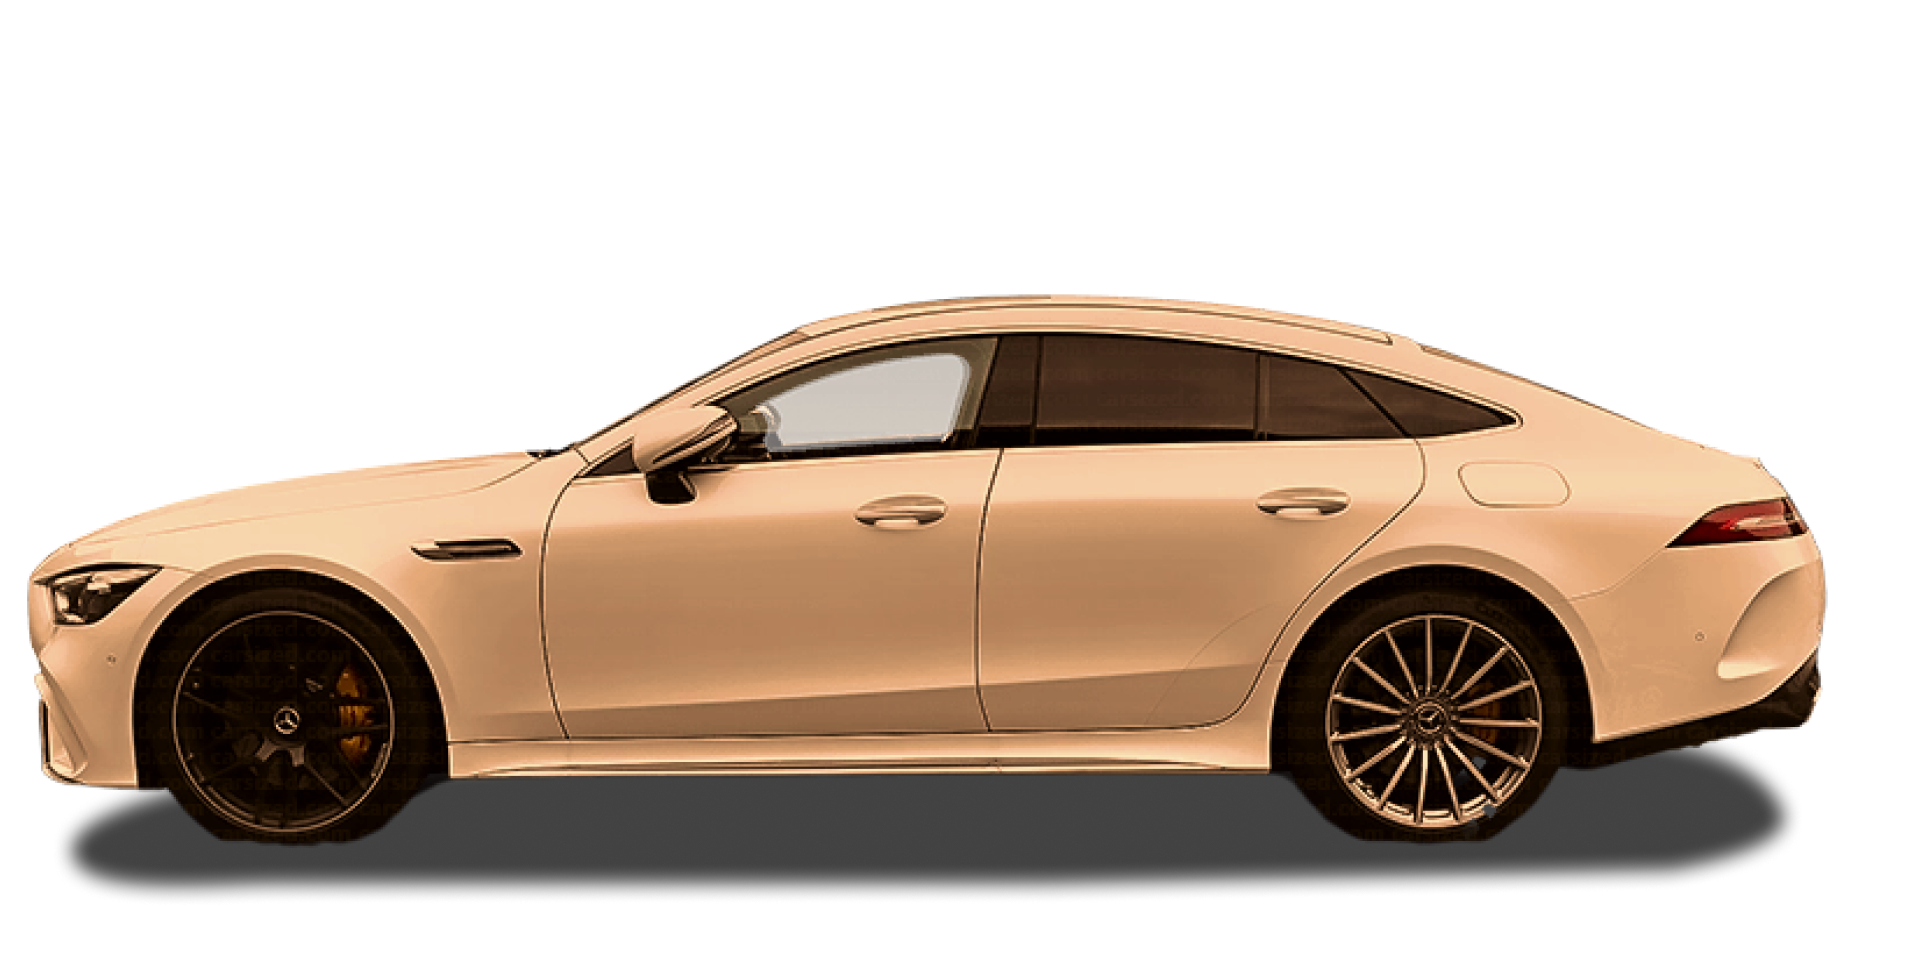
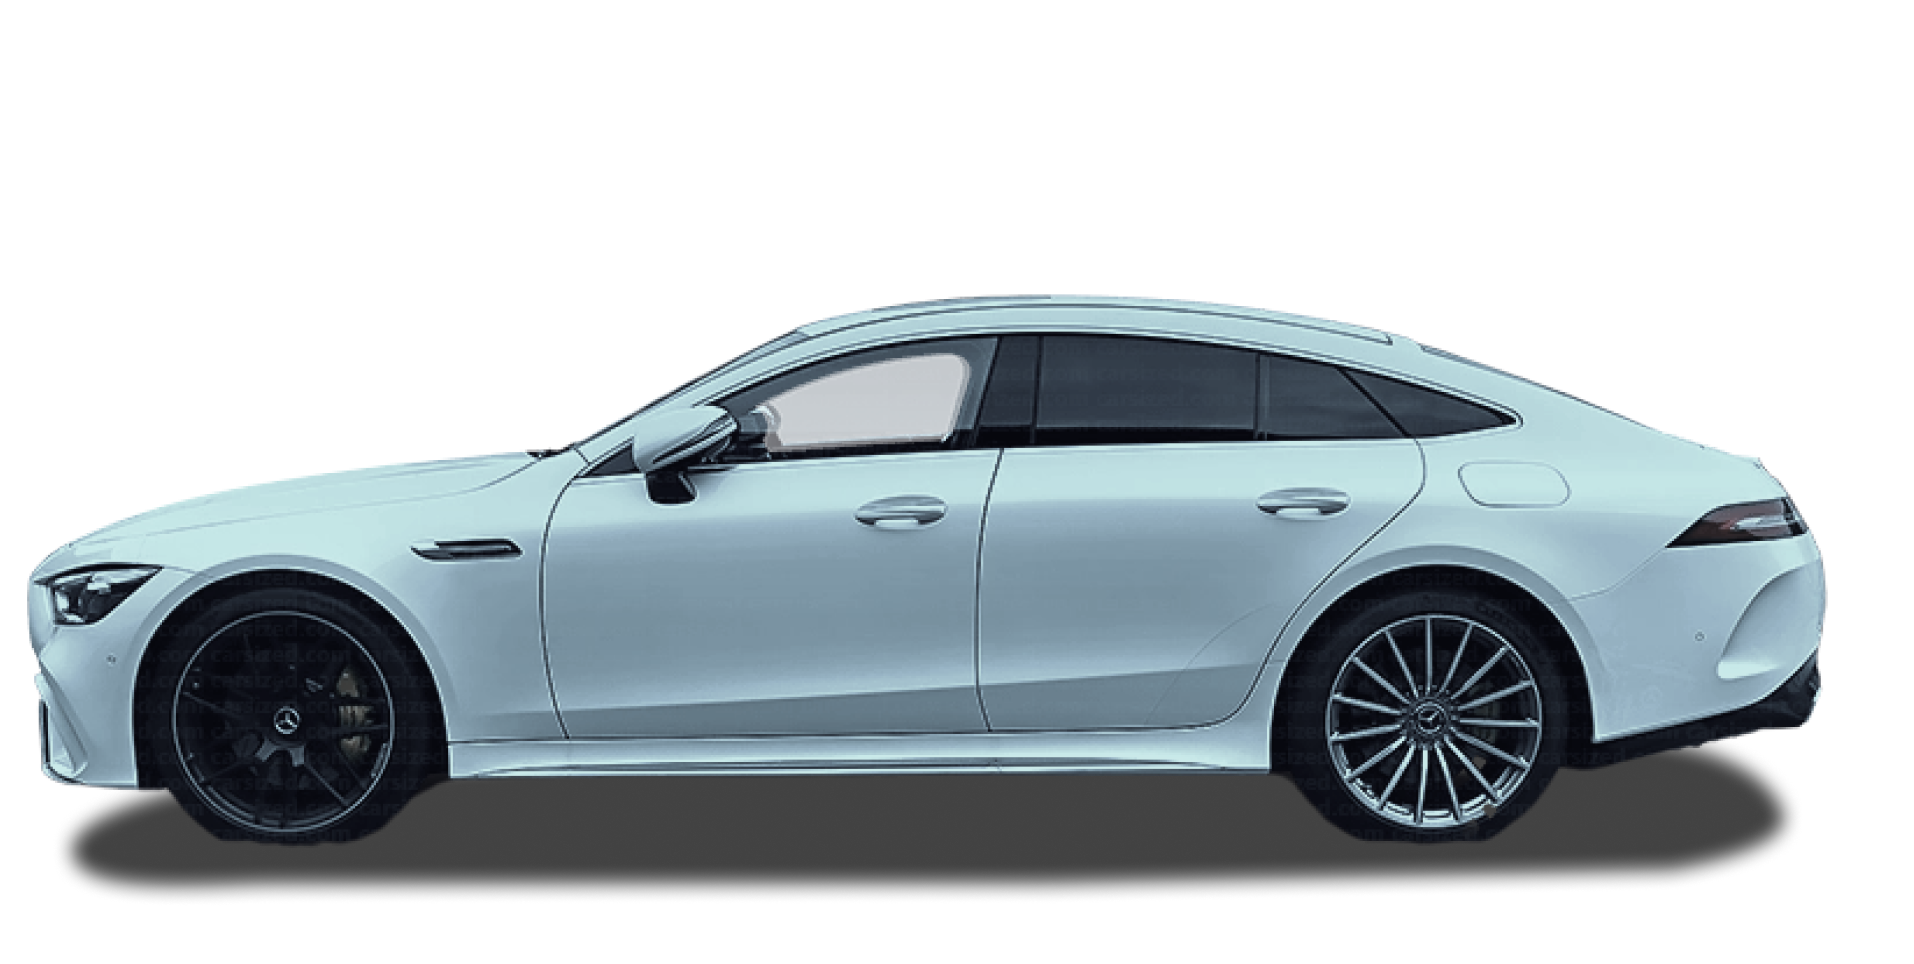
Update gallery.scss to include image and names sections

diff --git a/src/layout/gallery/index.jsx b/src/layout/gallery/index.jsx
@@ -15,7 +15,7 @@ import audiTyre from "../../assets/audi-tyre.png";
 import lexusTyre from "../../assets/lexus-tyre.png";
 import bmwTyre from "../../assets/bmw-tyre.png";
 import mercedesTyre from "../../assets/mercedes-tyre.png";
-import { BottomView } from "./spec";
+import { BottomView, RightView } from "./spec";
 
 const sections = [
   {
@@ -32,6 +32,42 @@ const sections = [
     tyre: audiTyre,
     cord: { left: "13.9%", top: "clamp(0px, 42.2%, 203px)", right: "10.4%" },
   },
+
+  {
+    image: bmw,
+    name: { top: "BMW", bottom: "M5 CS" },
+    tyre: bmwTyre,
+    cord: {
+      left: "4.2%",
+      top: "calc(clamp(0px, 33%, 150px) + clamp(0px, 10%, 100px)",
+      right: "11.7%",
+      height: "clamp(20px, 11.4vw, 135px)",
+    },
+    parentStyle: {
+      // paddingTop: "clamp(0px, calc(100px - 10vw), 50px)",
+    },
+    style: {
+      transform: "scale(1.15) translateY(clamp(0px, 10%, 150px)",
+    },
+  },
+  {
+    image: mercedes,
+    name: { top: "Mercedes", bottom: "GT 63 S" },
+    tyre: mercedesTyre,
+    cord: {
+      left: "-6.7%",
+      top: "calc(clamp(0px, 45%, 155px) + clamp(-36px, calc( 51% - 200px), 40px ))",
+      right: "6.5%",
+      height: "clamp(20px, 12.3vw, 140px)",
+    },
+    parentStyle: {
+      paddingTop: "clamp(0px, calc(100px - 10vw), 50px)",
+    },
+    style: {
+      transform:
+        "scale(1.32) translateY(clamp(-28px, calc( 51% - 200px), 300px ))",
+    },
+  },
   {
     image: lexus,
     name: { top: "Lexus", bottom: "LC Series" },
@@ -43,41 +79,12 @@ const sections = [
       height: "clamp(20px, 14.8vw, 175px)",
     },
   },
-  {
-    image: bmw,
-    name: { top: "BMW", bottom: "M5 CS" },
-    tyre: bmwTyre,
-    cord: {
-      left: "4.2%",
-      top: "calc(clamp(0px, 33.5%, 160px) + clamp(0px, 12%, 100px)",
-      right: "11.7%",
-      height: "clamp(20px, 11.4vw, 135px)",
-    },
-    style: {
-      transform: "scale(1.15) translateY(clamp(0px, 15%, 150px)",
-    },
-  },
-  {
-    image: mercedes,
-    name: { top: "Mercedes", bottom: "GT 63 S" },
-    tyre: mercedesTyre,
-    cord: {
-      left: "-6.7%",
-      top: "calc(clamp(0px, 45%, 155px) + clamp(-25px, calc( 51% - 200px), 40px ))",
-      right: "6.5%",
-      height: "clamp(20px, 12.3vw, 140px)",
-    },
-    style: {
-      transform:
-        "scale(1.32) translateY(clamp(-20px, calc( 51% - 200px), 300px ))",
-    },
-  },
 ];
 
 export const colors = [
-  "#755138",
-  "#273323",
   "#78000D",
+  "#4F616C",
+  "#273323",
   "#5B5B5F",
   "#314559",
   "#283749",
@@ -182,7 +189,7 @@ export default function Gallery({ detailsOpened }) {
         if (active) {
           // While dragging
           api.start({ x: memo + mx, immediate: true });
-          if (Math.abs(mx) > window.innerWidth / 2) {
+          if (Math.abs(mx) > window.innerWidth * 2) {
             cancel();
             const nextIndex = Math.round(Math.abs(memo + mx) / windowWidth);
             animateToSection(nextIndex);
@@ -202,12 +209,12 @@ export default function Gallery({ detailsOpened }) {
 
   const openDetails = () => {
     setDetails(true);
-    detailsApi.start(initialView(windowWidth));
+    // detailsApi.start(shrinkView(windowWidth));
   };
 
   const closeDetails = () => {
     setDetails(false);
-    detailsApi.start(shrinkView(windowWidth));
+    // detailsApi.start(shrinkView(windowWidth));
   };
   // Function to handle "Next" button click
   const handleNext = () => {
@@ -348,6 +355,7 @@ export default function Gallery({ detailsOpened }) {
         </animated.div>
       </div>
       <BottomView details={details} index={currentSection} />
+      <RightView details={details} windowWidth={windowWidth} />
     </>
   );
 }
@@ -425,6 +433,7 @@ const GalleryImage = ({ item, idx, x, windowWidth }) => {
     <animated.div
       key={idx}
       className="gallery-image"
+      style={{ ...item.parentStyle }}
       // style={{
       // background: idx % 2 === 0 ? "lightblue" : "lightcoral",
       //   // transform: x.to((currentX) => {

diff --git a/src/layout/gallery/spec.jsx b/src/layout/gallery/spec.jsx
@@ -1,14 +1,34 @@
 import { useEffect, useState } from "react";
 import "./spec.scss";
-import { animated, useSpring } from "@react-spring/web";
+import { animated, to, useSpring } from "@react-spring/web";
 import { customEasing } from "../header/header";
 import image1 from "../../assets/views/image01.png";
 import image2 from "../../assets/views/image02.png";
 import image3 from "../../assets/views/image03.png";
 import image4 from "../../assets/views/image04.png";
 import { colors } from "../gallery/index";
+import { ReactComponent as Fuel } from "../../assets/icons/fuel.svg";
+import { ReactComponent as Seat } from "../../assets/icons/seat.svg";
+import { ReactComponent as Engine } from "../../assets/icons/engine.svg";
 
 const viewSrc = [image1, image2, image3, image4];
+const specs = [
+  {
+    icon: Fuel,
+    value: "800km",
+    type: "Gas",
+  },
+  {
+    icon: Seat,
+    value: "4",
+    type: "Seats",
+  },
+  {
+    icon: Engine,
+    value: "335",
+    type: "Horse power",
+  },
+];
 
 export function BottomView({ details, index }) {
   const [btnColor, setBtnColor] = useState();
@@ -62,3 +82,46 @@ export function BottomView({ details, index }) {
     </animated.div>
   );
 }
+
+export const RightView = ({ details, windowWidth }) => {
+  const [draw, api] = useSpring(() => ({
+    from: { x: 200, y: 0, opacity: 0 },
+  }));
+
+  useEffect(() => {
+    api.start({
+      x: details ? 0 : windowWidth > 768 ? 200 : 0,
+      y: details ? 0 : windowWidth > 768 ? 0 : -40,
+      opacity: details ? 1 : 0,
+      delay: details ? 1000 : 0,
+      config: {
+        duration: details ? 2000 : 1800,
+        easing: (t) => customEasing(t),
+      },
+    });
+  }, [details, api, windowWidth]);
+
+  return (
+    <animated.div
+      style={{
+        transform: to(
+          [draw.x, draw.y],
+          (x, y) => `translate3d(calc(${x * 2.2}% - ${x}px), ${y}vw, 0)`
+        ),
+        opacity: draw.opacity,
+      }}
+      className="specs"
+    >
+      <div className="title">specs</div>
+      <div className="body">
+        {specs.map((spec, index) => (
+          <div key={index} className="spec">
+            <spec.icon />
+            <div className="value">{spec.value}</div>
+            <div className="type">{spec.type}</div>
+          </div>
+        ))}
+      </div>
+    </animated.div>
+  );
+};

diff --git a/src/layout/gallery/spec.scss b/src/layout/gallery/spec.scss
@@ -27,7 +27,7 @@
   overflow-y: auto;
   // align-content: start;
   &::-webkit-scrollbar {
-    // display: none;
+    display: none;
   }
 
   .title {
@@ -82,6 +82,51 @@
   }
 }
 
+.specs {
+  max-width: clamp(100px, 12vw, 12vw);
+  position: absolute;
+  text-transform: uppercase;
+  padding: 10px;
+  // background-color: red;
+  justify-self: end;
+  right: clamp(5px, 1vw, 30px);
+  z-index: 200;
+  top: calc(clamp(20px, 11vh, 140px));
+  display: grid;
+  gap: 32px;
+  grid-auto-flow: row;
+  justify-items: center;
+  font-weight: 400;
+  color: #454545;
+  transform: translateY(-50%) scale(0.9);
+  .body {
+    display: grid;
+    gap: 32px;
+    grid-auto-flow: row;
+  }
+  .title {
+    font-weight: 600;
+    letter-spacing: -0.2px;
+    font-size: clamp(16px, 1vw, 22px);
+  }
+
+  .spec {
+    display: grid;
+    text-align: center;
+    justify-items: center;
+
+    .value {
+      font-weight: 600;
+      font-size: clamp(18px, 2vw, 28px);
+    }
+    .type {
+      font-weight: 300;
+      font-size: clamp(14px, 1vw, 20px);
+      letter-spacing: 0.6px;
+    }
+  }
+}
+
 @media screen and (max-width: 1024px) {
   .view {
     mask-image: linear-gradient(transparent, black 10%, black 90%, transparent);
@@ -103,5 +148,20 @@
       padding-top: 20px;
       justify-content: center;
     }
+  }
+}
+
+@media screen and (max-width: 768px) {
+  .specs {
+    .body {
+      grid-template-columns: repeat(3, 1fr);
+    }
+    align-items: center;
+    right: inherit;
+    left: inherit;
+    max-width: fit-content;
+    justify-self: center;
+    margin-top: -90px;
+    scale: 0.6;
   }
 }

diff --git a/src/layout/gallery/gallery.scss b/src/layout/gallery/gallery.scss
@@ -20,6 +20,7 @@
     align-self: center;
     // overflow: hidden;
     display: grid;
+    // background: red;
 
     #overflow {
       // background: #000;
@@ -178,13 +179,12 @@
 
 @media screen and (max-width: 768px) {
   .gallery {
-    row-gap: 10px;
-    min-height: 600px;
+    min-height: 500px;
     height: fit-content;
-    margin-top: -50px;
+    // margin-top: -150px;
 
     &-content {
-      // margin-top: 80px;
+      margin-top: 0;
     }
 
     &-image {
@@ -199,7 +199,7 @@
   .gallery {
     &-image {
       div {
-        margin: 60px 0 0;
+        margin: 20px 0 0;
       }
     }
   }
@@ -217,8 +217,8 @@
 @media screen and (min-height: 1000px) and (max-width: 1240px) {
   .gallery {
     &-content {
-      padding-top: calc(clamp(20px, 4.2vw, 92px) * 6);
-      transform: translateY(30px);
+      // padding-top: calc(clamp(20px, 4.2vw, 92px) * 3);
+      transform: translateY(50px);
     }
   }
 }
